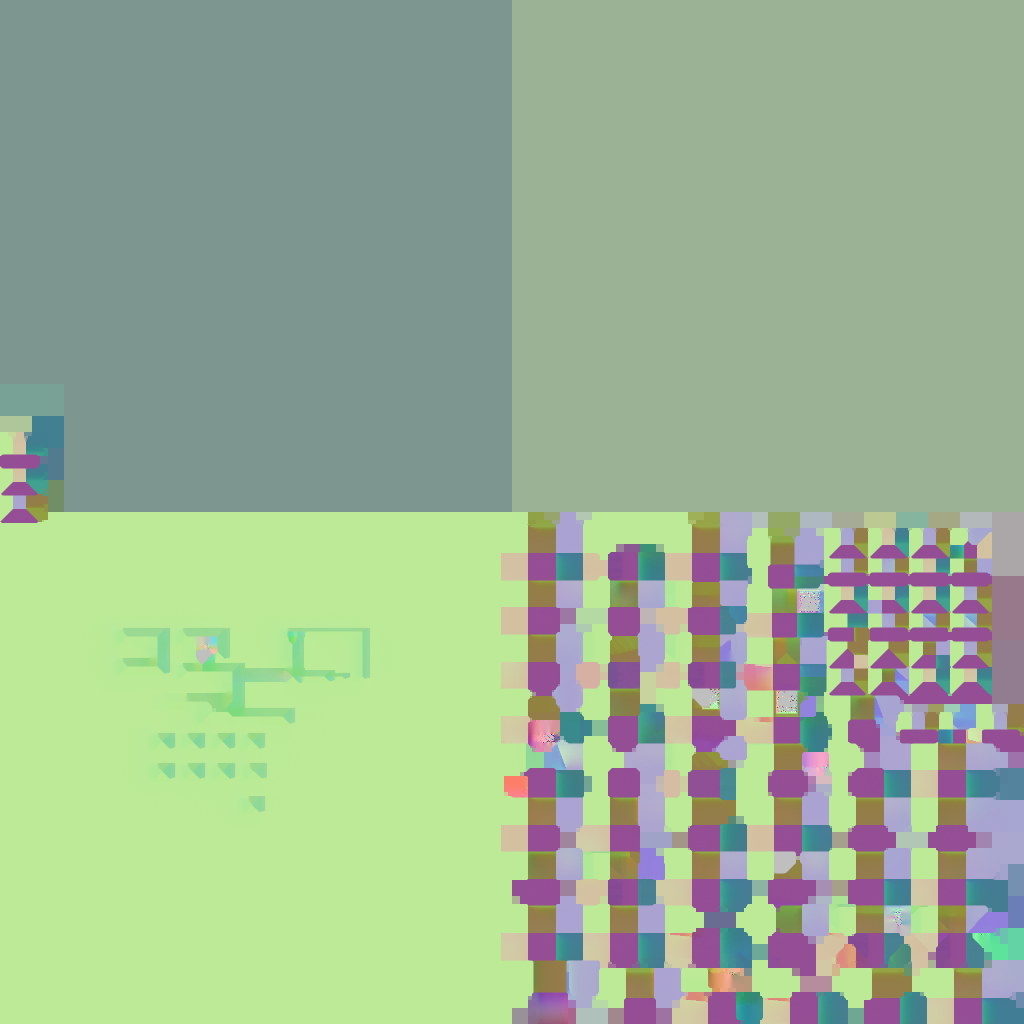
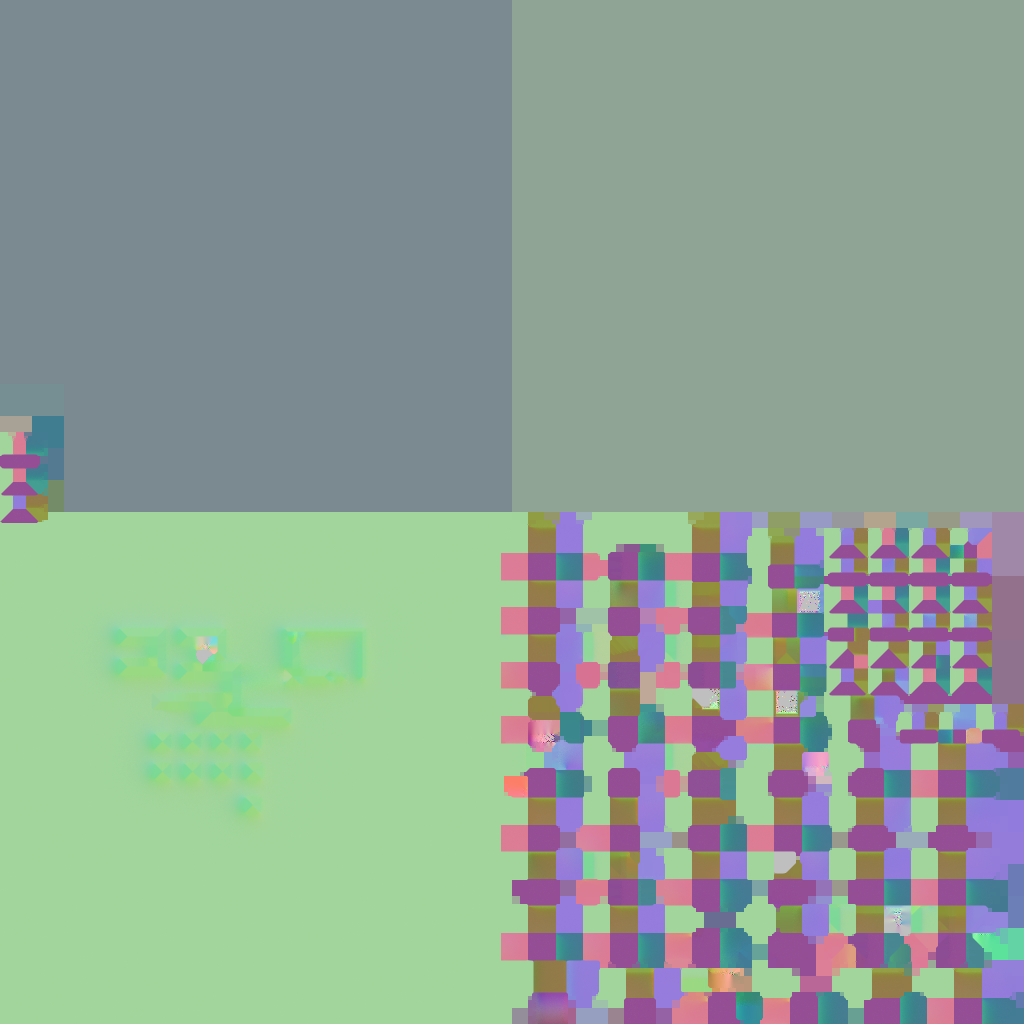
调整骷髅阴影

diff --git a/Unity/Assets/Scripts/Loader/CodeLoader.cs b/Unity/Assets/Scripts/Loader/CodeLoader.cs
@@ -39,9 +39,12 @@ namespace ET
 				byte[] pdbBytes;
 				if (!Define.IsEditor)
 				{
-					Dictionary<string, UnityEngine.Object> dictionary = AssetsBundleHelper.LoadBundle("code.unity3d");
-					assBytes = ((TextAsset)dictionary["Codes.dll"]).bytes;
-					pdbBytes = ((TextAsset)dictionary["Codes.pdb"]).bytes;
+					//Dictionary<string, UnityEngine.Object> dictionary = AssetsBundleHelper.LoadBundle("code.unity3d");
+					//assBytes = ((TextAsset)dictionary["Codes.dll"]).bytes;
+					//pdbBytes = ((TextAsset)dictionary["Codes.pdb"]).bytes;
+					
+					assBytes = File.ReadAllBytes(Path.Combine("../Unity", Define.BuildOutputDir, "Codes.dll"));
+					pdbBytes = File.ReadAllBytes(Path.Combine("../Unity", Define.BuildOutputDir, "Codes.pdb"));
 
 					if (Define.EnableIL2CPP)
 					{

diff --git a/Unity/Assets/Scripts/Core/LockStep/RollbackHelper.cs b/Unity/Assets/Scripts/Core/LockStep/RollbackHelper.cs
@@ -13,17 +13,17 @@ namespace ET
             
             if (entity.ComponentsCount() > 0)
             {
-                foreach (Entity component in entity.Components.Values)
+                foreach (var kv in entity.Components)
                 {
-                    Rollback(component);
+                    Rollback(kv.Value);
                 }
             }
 
             if (entity.ChildrenCount() > 0)
             {
-                foreach (Entity child in entity.Children.Values)
+                foreach (var kv in entity.Children)
                 {
-                    Rollback(child);
+                    Rollback(kv.Value);
                 }
             }
         }

diff --git a/Unity/Assets/Scripts/HotfixView/Client/Demo/Camera/CameraComponentSystem.cs b/Unity/Assets/Scripts/HotfixView/Client/Demo/Camera/CameraComponentSystem.cs
@@ -45,7 +45,7 @@ namespace ET.Client
 
 			Vector3 pos = lsUnit.Transform.position;
 			Vector3 cameraPos = self.Transform.position;
-			self.Transform.position = new Vector3(pos.x, cameraPos.y, pos.z - 10);
+			self.Transform.position = new Vector3(pos.x, pos.y + 3, pos.z - 5);
 		}
 	}
 }

diff --git a/Unity/Assets/Scripts/Model/Share/LockStep/LSConstValue.cs b/Unity/Assets/Scripts/Model/Share/LockStep/LSConstValue.cs
@@ -2,7 +2,7 @@ namespace ET
 {
     public static class LSConstValue
     {
-        public const int MatchCount = 1;
+        public const int MatchCount = 2;
         public const int UpdateInterval = 50;
     }
 }